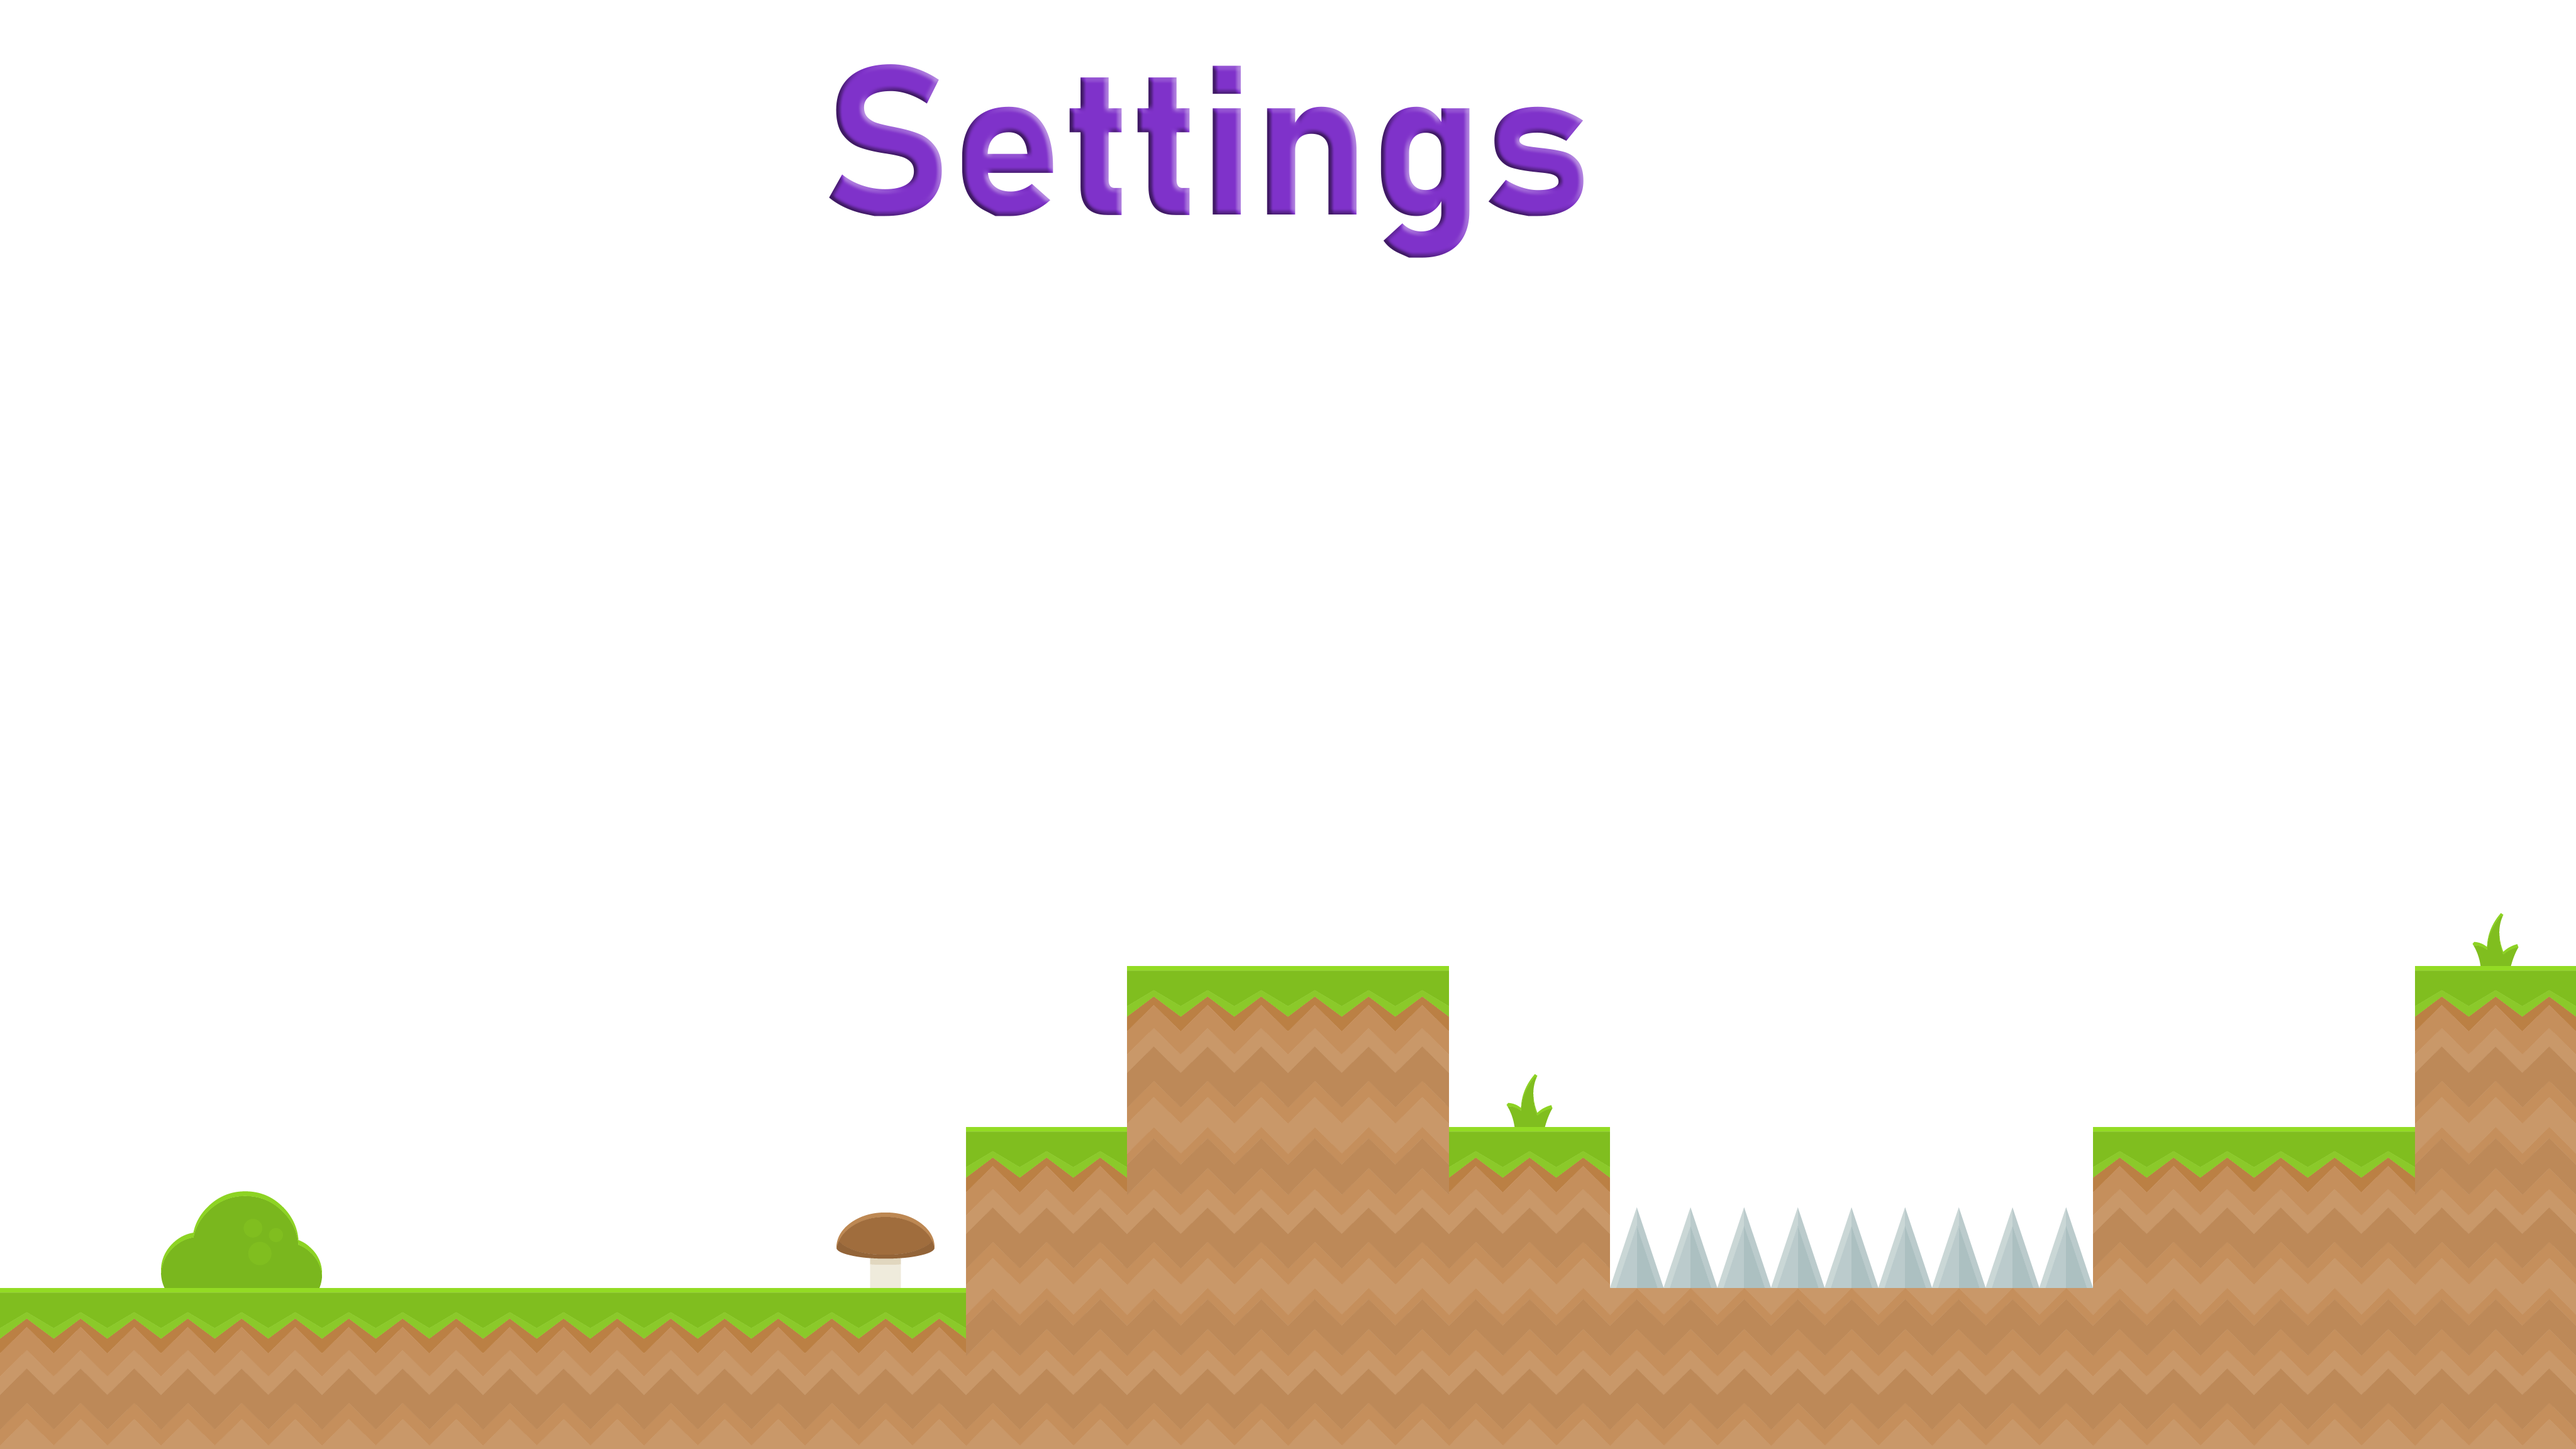
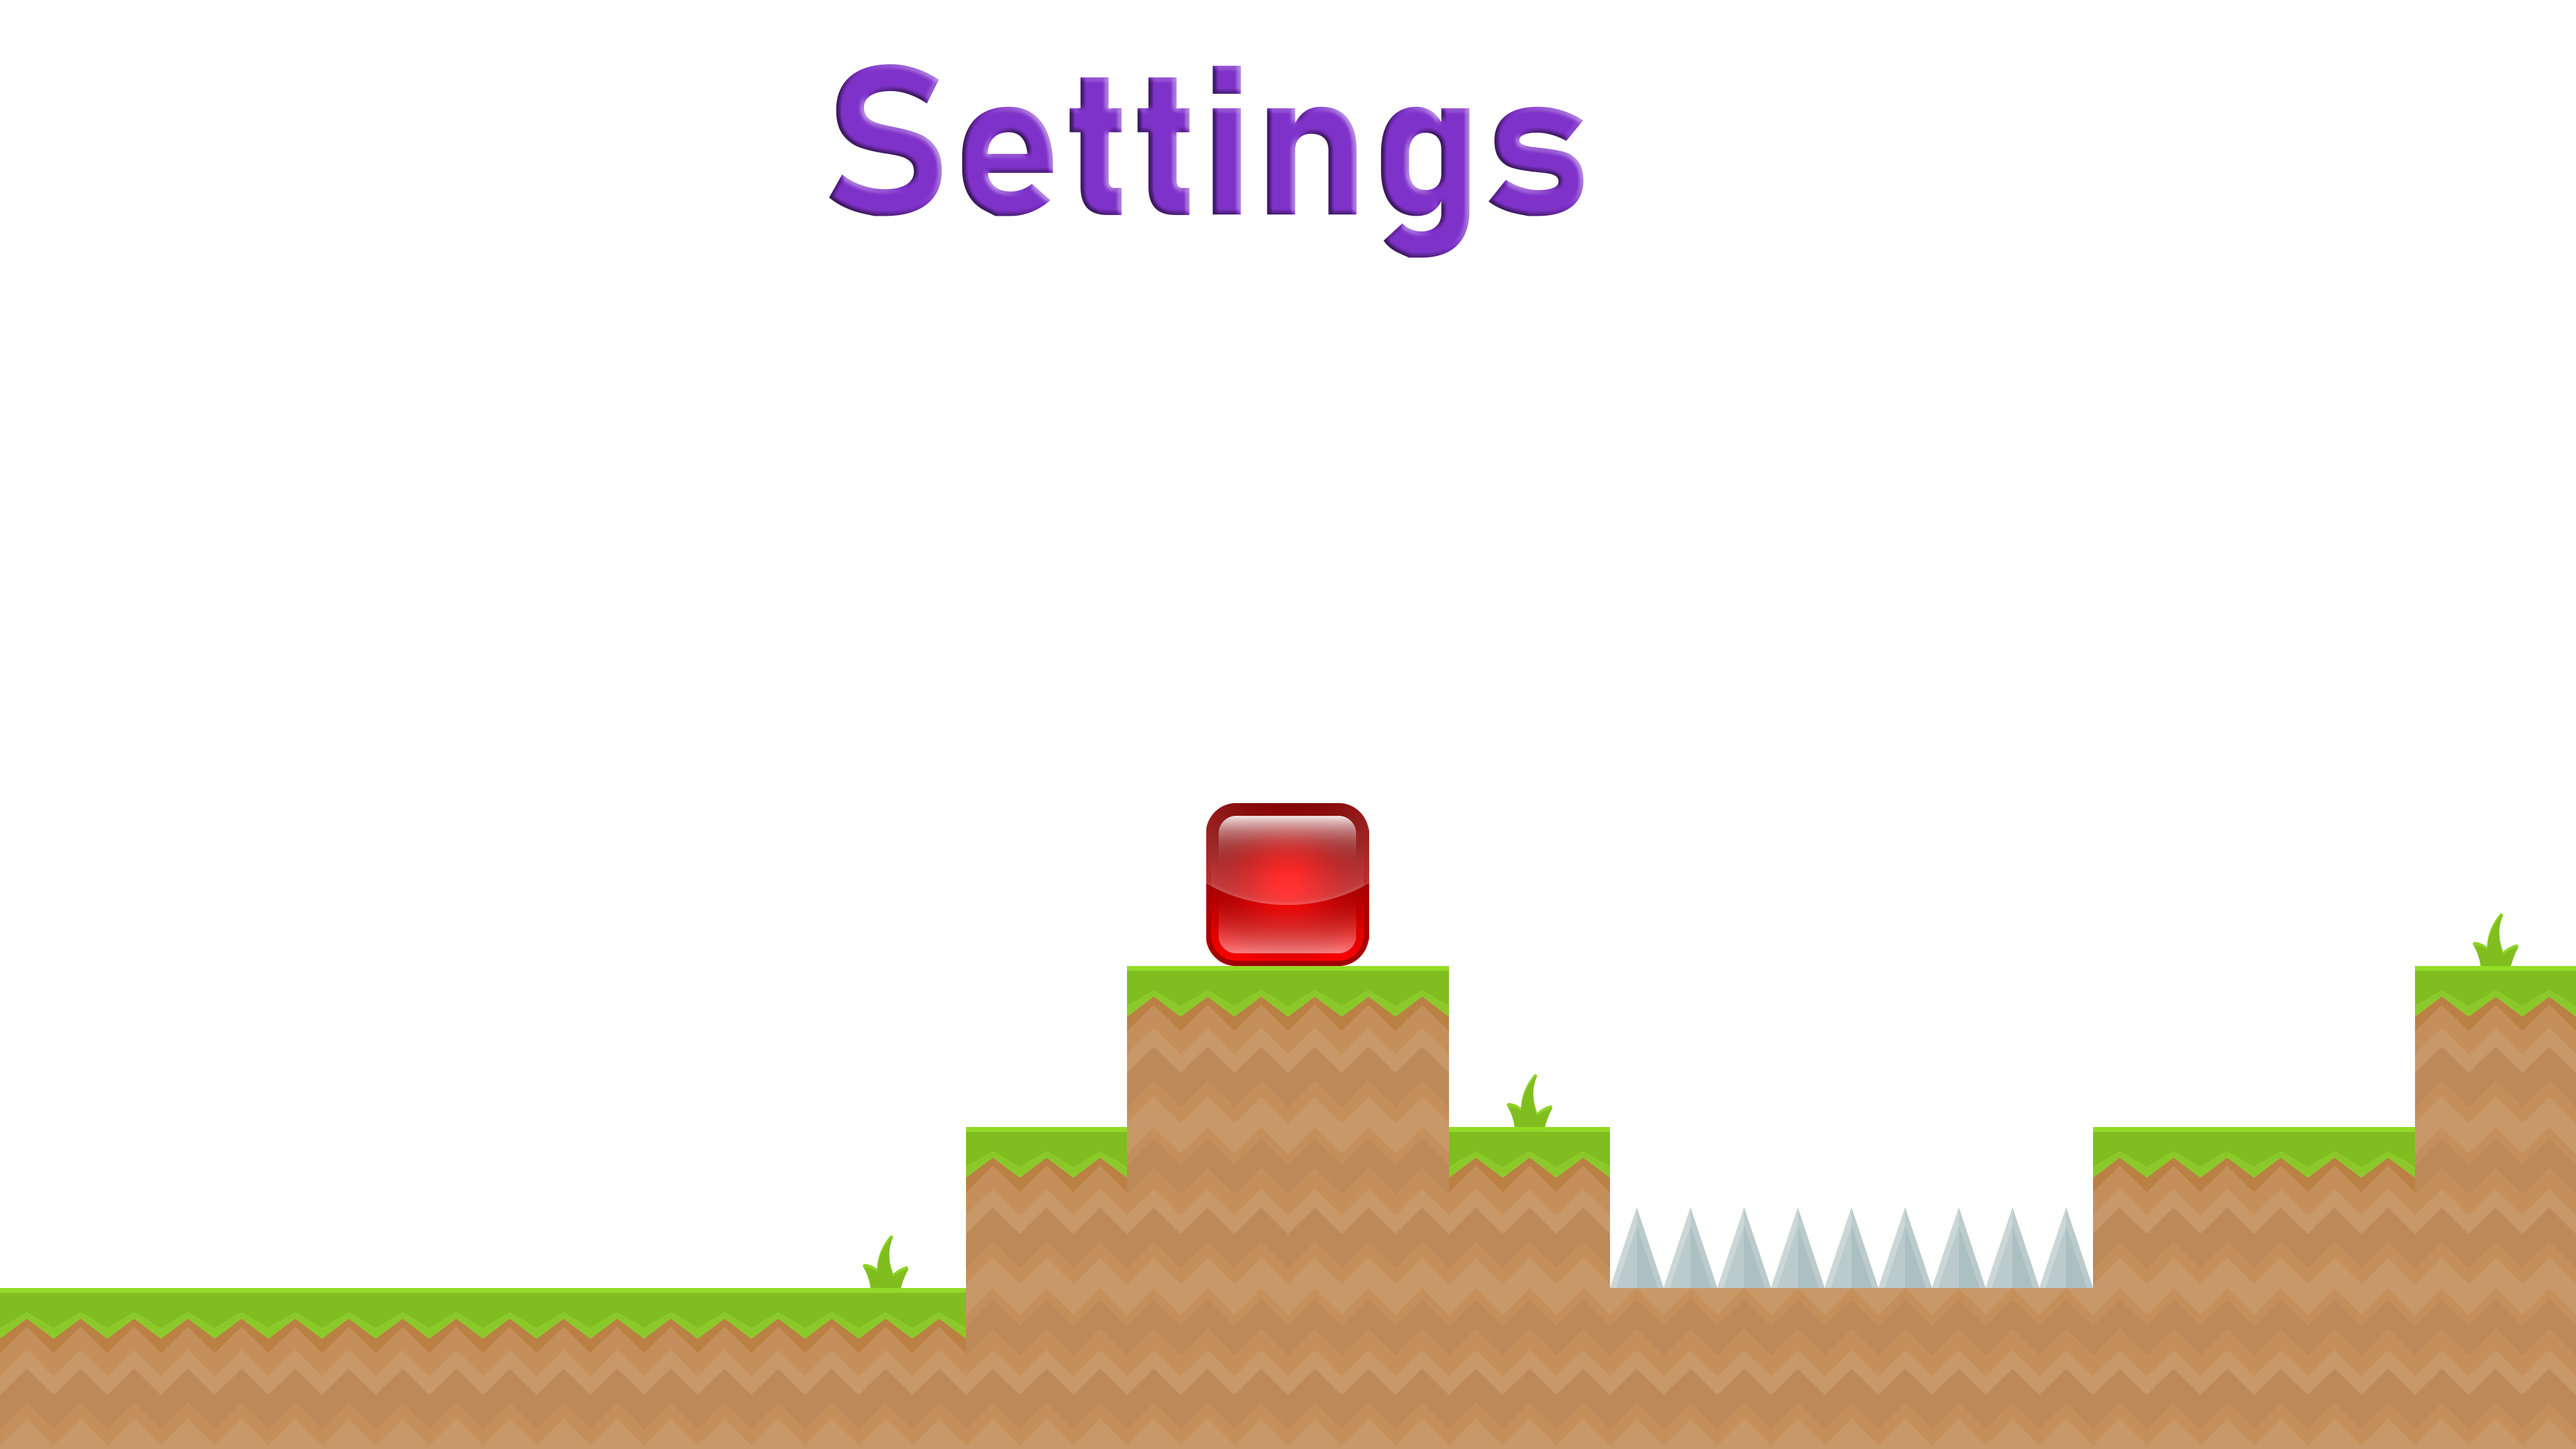
Change images
Картинки снова поменялись во многих меню. Также добавлены новые гифки.

Changed region(s): [[0.4688, 0.5312, 0.5312, 0.6875], [0.0625, 0.8125, 0.125, 0.9062], [0.3125, 0.8438, 0.375, 0.9062]]

diff --git a/View/intermediate_menu.cpp b/View/intermediate_menu.cpp
@@ -9,15 +9,18 @@ IntermediateMenu::IntermediateMenu(AbstractGameController* game_controller,
   switch (menu_type_) {
     case MenuType::kFail: {
       background_ = QImage(":/images/menu/big_background_pink.png");
-      main_part_ = QImage(":/images/menu/fail_menu1.png");
+      main_part_ = QImage(":/images/menu/fail_menu.png");
       image_set = std::make_shared<ImageSet>("malinovij");
+      menu_animation_ = std::make_shared<Movie>("cloud", this);
+      menu_animation_->SetSpeed(30);
+      menu_animation_->Play();
       break;
     }
     case MenuType::kPause: {
       background_ = QImage(":/images/menu/big_background.png");
-      main_part_ = QImage(":/images/menu/pause_menu2.png");
+      main_part_ = QImage(":/images/menu/pause_menu.png");
       image_set = std::make_shared<ImageSet>("blue");
-      menu_animation_ = std::make_shared<Movie>("burdock_loop", this);
+      menu_animation_ = std::make_shared<Movie>("burdock", this);
       menu_animation_->SetSpeed(100);
       menu_animation_->Play();
       break;
@@ -26,7 +29,7 @@ IntermediateMenu::IntermediateMenu(AbstractGameController* game_controller,
       background_ = QImage(":/images/menu/big_background_yellow.png");
       main_part_ = QImage(":/images/menu/victory_menu.png");
       image_set = std::make_shared<ImageSet>("orange");
-      menu_animation_ = std::make_shared<Movie>("sunflower_anim", this);
+      menu_animation_ = std::make_shared<Movie>("sunflower", this);
       menu_animation_->SetSpeed(160);
       menu_animation_->Play();
       break;
@@ -35,6 +38,10 @@ IntermediateMenu::IntermediateMenu(AbstractGameController* game_controller,
       background_ = QImage(":/images/menu/big_background.png");
       main_part_ = QImage(":/images/menu/controls.png");
       image_set = std::make_shared<ImageSet>("back_arrow");
+
+      menu_animation_ = std::make_shared<Movie>("chestnut", this);
+      menu_animation_->SetSpeed(100);
+      menu_animation_->Play();
       break;
     }
   }
@@ -94,6 +101,8 @@ void IntermediateMenu::resizeEvent(QResizeEvent* event) {
       restart_button_->SetRectangle(PositionRectangle(1, 1, 3, 2));
       choose_level_button_->SetRectangle(PositionRectangle(12, 1, 3, 2));
       main_menu_button_->SetRectangle(PositionRectangle(12, 4, 3, 2));
+
+      menu_animation_->setGeometry(PositionRectangle(6, 1, 4, 4));
       break;
     }
     case MenuType::kPause: {
@@ -106,16 +115,18 @@ void IntermediateMenu::resizeEvent(QResizeEvent* event) {
       break;
     }
     case MenuType::kVictory: {
-      resume_button_->SetRectangle(PositionRectangle(2, 1, 3, 2));
-      restart_button_->SetRectangle(PositionRectangle(6, 1, 3, 2));
-      choose_level_button_->SetRectangle(PositionRectangle(2, 4, 3, 2));
-      main_menu_button_->SetRectangle(PositionRectangle(6, 4, 3, 2));
+      resume_button_->SetRectangle(PositionRectangle(2, 2, 3, 2));
+      restart_button_->SetRectangle(PositionRectangle(6, 2, 3, 2));
+      choose_level_button_->SetRectangle(PositionRectangle(2, 5, 3, 2));
+      main_menu_button_->SetRectangle(PositionRectangle(6, 5, 3, 2));
 
-      menu_animation_->setGeometry(PositionRectangle(11, 1, 4, 5));
+      menu_animation_->setGeometry(PositionRectangle(11, 2, 4, 5));
       break;
     }
     case MenuType::kControls: {
       back_arrow_->SetRectangle(PositionRectangle(1, 1, 1, 1));
+
+      menu_animation_->setGeometry(PositionRectangle(8, 5, 6, 2));
       break;
     }
   }

diff --git a/View/settings_volume.cpp b/View/settings_volume.cpp
@@ -9,6 +9,10 @@ SettingsVolume::SettingsVolume(AbstractGameController* game_controller,
   scaled_background_ = background_;
   scaled_main_part_ = main_part_;
 
+  menu_animation_ = std::make_shared<Movie>("tree", this);
+  menu_animation_->SetSpeed(100);
+  menu_animation_->Play();
+
   auto right_arrows = std::make_shared<ImageSet>("right_arrow");
   auto left_arrows = std::make_shared<ImageSet>("left_arrow");
   auto square = std::make_shared<ImageSet>("square");
@@ -42,10 +46,11 @@ void SettingsVolume::resizeEvent(QResizeEvent* event) {
     left_arrows_[i]->SetRectangle(PositionRectangle(6, k, 1, 1));
     right_arrows_[i]->SetRectangle(PositionRectangle(8, k, 1, 1));
     squares_[i]->SetRectangle(PositionRectangle(7, k, 1, 1));
+    squares_[i]->SetLabelColor(QColor(45, 49, 56));
     k += 2;
   }
 
   back_arrow_->SetRectangle(PositionRectangle(1, 1, 1, 1));
-
+  menu_animation_->setGeometry(PositionRectangle(3, 3, 1, 3));
   MakeEqualFontSize(squares_);
 }

diff --git a/View/settings_menu.cpp b/View/settings_menu.cpp
@@ -11,6 +11,10 @@ SettingsMenu::SettingsMenu(AbstractGameController* game_controller,
   scaled_background_ = background_;
   scaled_main_part_ = main_part_;
 
+  menu_animation_ = std::make_shared<Movie>("bush", this);
+  menu_animation_->SetSpeed(100);
+  menu_animation_->Play();
+
   connect(back_arrow_, &QPushButton::clicked, this, [&]() {
     game_controller_->OpenMainMenu();
   });
@@ -30,4 +34,6 @@ void SettingsMenu::resizeEvent(QResizeEvent* event) {
   back_arrow_->SetRectangle(PositionRectangle(1, 1, 1, 1));
   controls_->SetRectangle(PositionRectangle(1, 3, 5, 3));
   volume_->SetRectangle(PositionRectangle(10, 2, 5, 3));
+
+  menu_animation_->setGeometry(PositionRectangle(2, 7, 2, 1));
 }

diff --git a/View/settings_volume.h b/View/settings_volume.h
@@ -5,6 +5,7 @@
 #include <vector>
 
 #include "menu.h"
+#include "movie.h"
 
 class SettingsVolume : public Menu {
  public:
@@ -21,6 +22,8 @@ class SettingsVolume : public Menu {
   std::vector<Button*> right_arrows_;
   std::vector<Button*> left_arrows_;
   std::vector<Button*> squares_;
+
+  std::shared_ptr<Movie> menu_animation_;
 };
 
 #endif  // VIEW_SETTINGS_VOLUME_H_

diff --git a/View/button.h b/View/button.h
@@ -34,6 +34,7 @@ class Button : public QPushButton {
   void SetText(const QString& text);
   void SetFontSize(int text_size);
   void SetRectangle(const QRect& rectangle);
+  void SetLabelColor(const QColor& color);
 
  private:
   void paintEvent(QPaintEvent* event) override;

diff --git a/View/button.cpp b/View/button.cpp
@@ -115,3 +115,7 @@ void Button::SetRectangle(const QRect& rectangle) {
     text_->setGeometry(0, 0, width(), height());
   }
 }
+
+void Button::SetLabelColor(const QColor& color) {
+  text_->SetFontColor(color);
+}

diff --git a/View/settings_menu.h b/View/settings_menu.h
@@ -19,6 +19,8 @@ class SettingsMenu : public Menu {
   Button* back_arrow_;
   Button* controls_;
   Button* volume_;
+
+  std::shared_ptr<Movie> menu_animation_;
 };
 
 #endif  // VIEW_SETTINGS_MENU_H_
